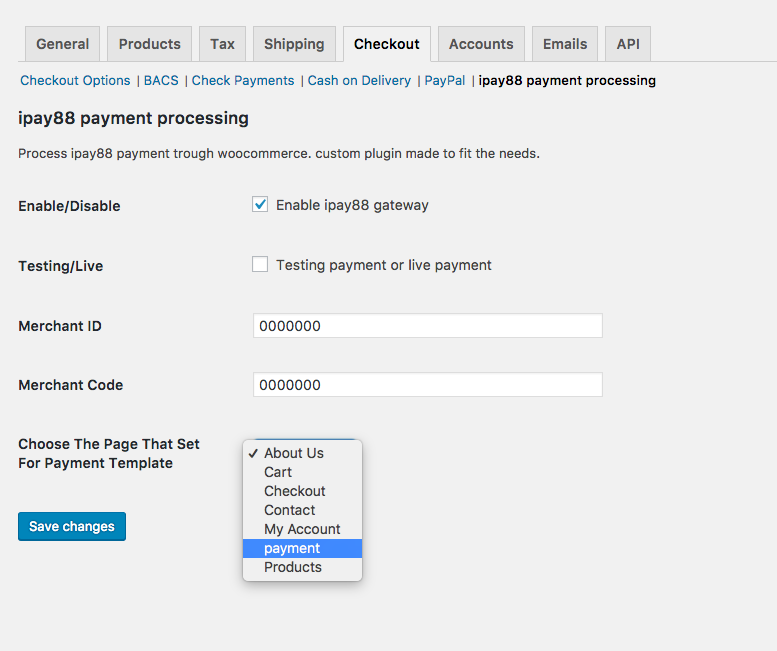
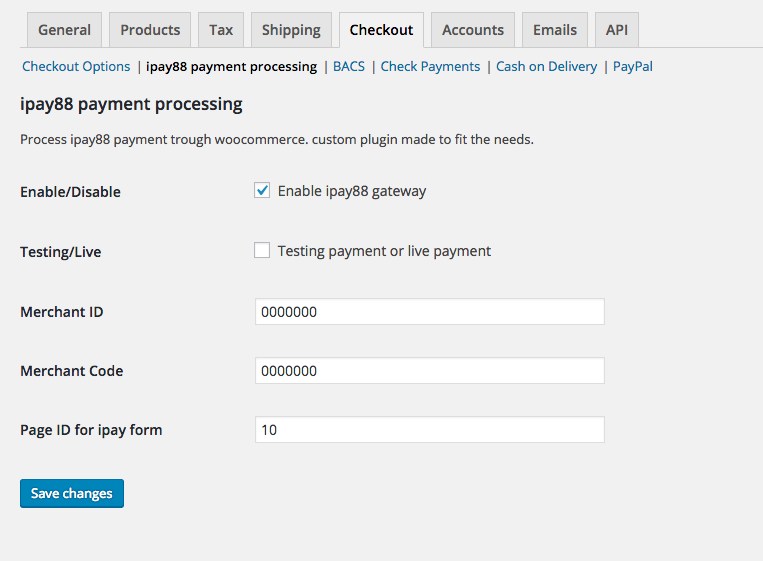
modified admin form label #6

diff --git a/libs/faiz-gateway-class.php b/libs/faiz-gateway-class.php
@@ -58,12 +58,12 @@ class Aics_ipay_gateway extends WC_Payment_Gateway{
                                                       'default' => 'no'
                                                     ),
                                    'merchantID' => array(
-                                                          'title' => __( 'Merchant ID', 'aics' ),
+                                                          'title' => __( 'Merchant Code', 'aics' ),
                                                           'type' => 'text',
                                                           'default' => '0000000'
                                                         ),
                                    'merchantCode' => array(
-                                                          'title' => __( 'Merchant Code', 'aics' ),
+                                                          'title' => __( 'Merchant Key', 'aics' ),
                                                           'type' => 'text',
                                                           'default' => '0000000'
                                                         ),

diff --git a/aics-ipay-gateway.php b/aics-ipay-gateway.php
@@ -4,7 +4,7 @@ Plugin Name: AiCS ipay88 Woocommerce
 Plugin URI: http://www.aics.my/
 Description: AiCS Malaysian ipay88 gateway plugin for woocommerce
 Author: AiCS
-Version: 1.0.2
+Version: 1.0.3
 */
 defined( 'ABSPATH' ) or die( 'nope.. just nope' );
 

diff --git a/README.md b/README.md
@@ -1,10 +1,13 @@
 # ipay88-woocommerce
 
-### woocommerce checkout setting, choose page
+### woocommerce checkout setting
 ![ipay88 woocommerce setting](/assets/ipay88-checkout-setting.png?raw=true)
 
 ### create page and set payment as template
 ![template on page](/assets/page-template.png?raw=true)
+
+### use page id in the checkout setting
+![how to get id page](/assets/how-to-get-id-page.png?raw=true)
 
 ---
 
